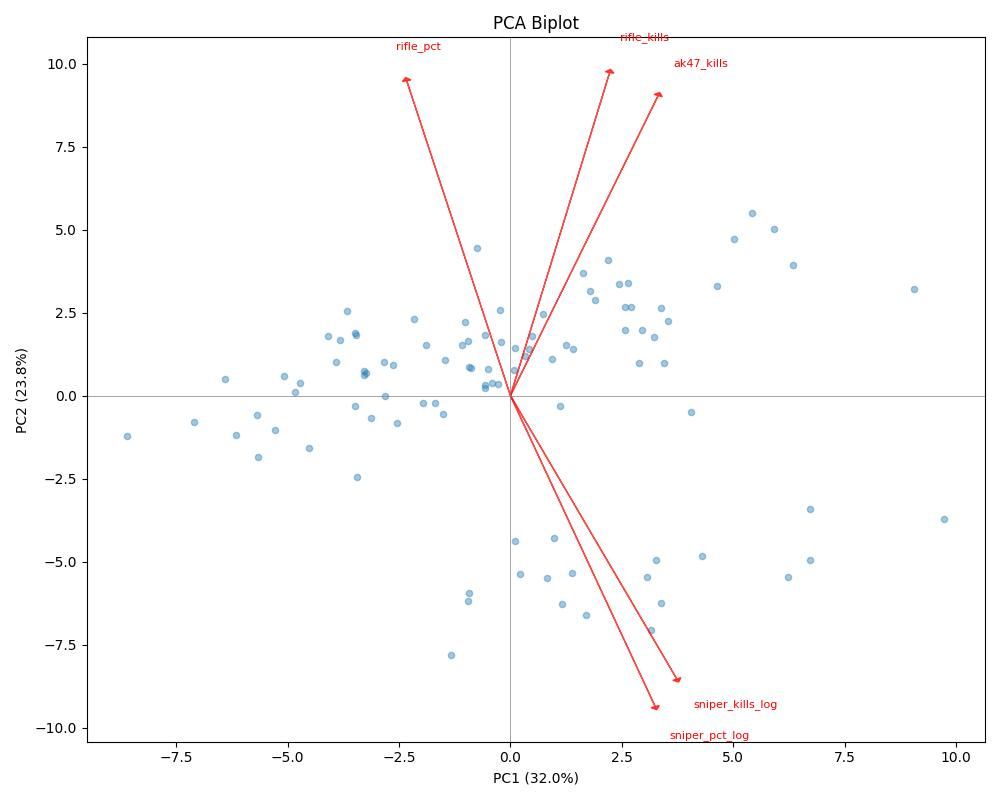
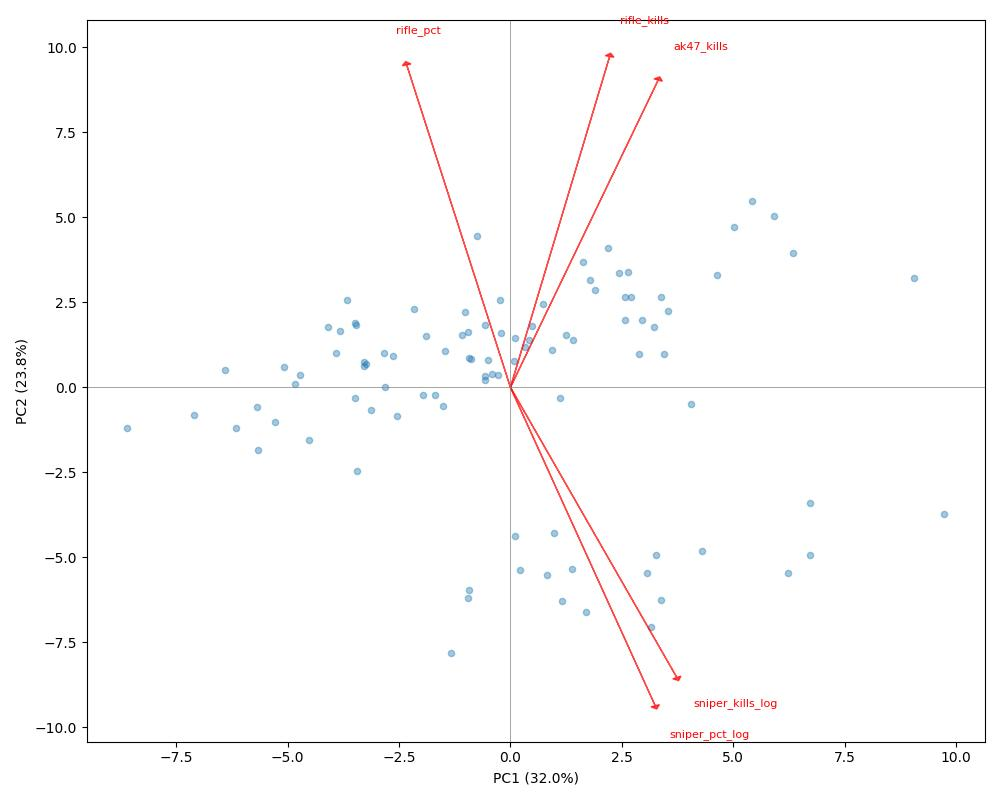
PCA results and discussion

diff --git a/blog_post.md b/blog_post.md
@@ -172,9 +172,60 @@ Agglomerative hierarchical clustering was applied to the full standardized featu
 
 ## Results
 
+### Principal Component Analysis (PCA)
 
+<div align="center">
+  <img src="images/scree_plot.jpg" alt="Scree Plot">
+</div>
 
+*Figure 1 – Individual and cumulative proportion of variance explained by each principal component. The dashed line marks the 90% threshold.*
 
+The scree plot reveals two things immediately. First, no single component dominates: PC1 captures a meaningful share of variance but far from the majority, and the individual bars decline gradually rather than dropping sharply after the first component. Second, reaching 90% of total variance requires **9 principal components** out of a possible 40.
+Player performance is genuinely multi-dimensional as no single axis summarizes the data cleanly. This makes intuitive sense: a player's statistical fingerprint is shaped by several largely independent factors such as how good they are overall, what weapon they prefer, how much playing time they have had, and what role they fill on the team.
 
+Table 1 shows the three largest positive and negative loadings for each of the nine retained components.
 
+| PC | Top positive loadings | Top negative loadings |
+|----|----------------------|-----------------------|
+| PC1 | KD\_Ratio (+0.258), KPR (+0.258), ROUND\_SWING (+0.257) | DPR (–0.119), smg\_pct (–0.145), smg\_kills (–0.084) |
+| PC2 | rifle\_kills (+0.296), rifle\_pct (+0.288), ak47\_kills (+0.274) | sniper\_pct\_log (–0.284), sniper\_kills\_log (–0.259), awp\_kills\_log (–0.257) |
+| PC3 | Rounds\_played (+0.371), Maps\_played (+0.367), Total\_deaths (+0.343) | ADR (–0.164), Impact\_rating (–0.158), MULTI\_KILL (–0.146) |
+| PC4 | pistol\_pct (+0.424), Saved\_teammates (+0.312), deagle\_kills (+0.272) | smg\_kills (–0.384), smg\_pct (–0.376), Grenade\_dmg (–0.280) |
+| PC5 | KAST (+0.388), m4a1\_kills (+0.334), KD\_Ratio (+0.137) | DPR (–0.373), m4a1s\_kills (–0.242), deagle\_kills (–0.225) |
+| PC6 | m4a1s\_kills (+0.386), Grenade\_dmg (+0.359), Assists (+0.206) | m4a1\_kills (–0.340), smg\_kills (–0.333), smg\_pct (–0.307) |
+| PC7 | pistol\_pct (+0.447), m4a1s\_kills (+0.399), smg\_pct (+0.296) | m4a1\_kills (–0.432), Saved\_teammates (–0.277), ak47\_kills (–0.113) |
+| PC8 | Saved\_by\_teammate (+0.706), Saved\_teammates (+0.441), KAST (+0.252) | m4a1\_kills (–0.253), deagle\_kills (–0.226), Grenade\_dmg (–0.161) |
+| PC9 | Grenade\_dmg (+0.579), Assists (+0.350), pistol\_pct (+0.334) | m4a1s\_kills (–0.253), ak47\_kills (–0.119), glock\_kills (–0.110) |
+
+*Table 1 – Top loadings (by absolute magnitude) for each principal component.*
+
+<div align="center">
+  <img src="images/biplot.jpg" alt="Biplot PC1 vs PC2">
+</div>
+
+*Figure 2 – Biplot of player scores on PC1 and PC2. Red arrows show the loading directions of the five features with the largest combined magnitude across both components.*
+
+---
+
+### Clustering Analysis
+
+---
+
+## Discussion
+
+### Breaking Down the Principal Components
+As the original 40-dimensional feature space was decomposed into 9 principal components. the **rotation matrix** (`pca.components_`) tells you what each PC measures while the **scores** (`X`) tell you where each player stands on those measures.
+
+Referring to Table 1:
+**PC1 – Overall Performance.** Output-oriented metric such as KD\_Ratio, KPR, and ROUND\_SWING metric pulls positive. DPR and SMG percentage pull negative. As a result, this component is a composite skill index. High scores on PC1 mean more kills, fewer deaths, and more rounds swung in the team's favor. 
+
+**PC2 – Weapon Style (AWP vs. Rifle).** The loadings split cleanly along weapon lines. Rifle\_kills, rifle\_pct, and ak47\_kills load strongly positive while sniper\_pct\_log, sniper\_kills\_log, and awp\_kills\_log load strongly negative at nearly equal magnitude. Moving along PC2 from negative to positive means moving from dedicated AWPer to dedicated rifler. 
+
+**PC3 – Playing Volume vs. Per-Round Impact.** Rounds\_played, Maps\_played, and Total\_deaths dominate the positive side while ADR, Impact\_rating, and MULTI\_KILL pull negative. This axis separates players who accumulate rounds from those who are efficient per round. High PC3 scores point to the IGL and support role player profile. They have plenty of maps played, but below-average per-round output.
+
+**PC4 – Economy Weapon Preference.** Pistol\_pct and deagle\_kills load positively while smg\_kills and smg\_pct load negatively. On eco and force-buy rounds, players either choose pistols or SMGs and this component distinguishes these two styles. The positive loading on Saved\_teammates links the deagle-preference style to players who has higer aiming skills and tends to stay behide to trade rather than running with SMGs.
+
+**PC5 through PC9** capture progressively narrower dimensions: CT-side survivability (PC5), M4A1-S vs. M4A1 preference (PC6 and PC7), teammate-save dynamics (PC8), and utility/grenade damage paired with assist rate (PC9). These later components explain relatively little variance individually but collectively cover meaningful structural variation that the first four miss.
+
+The biplot in Figure 2 reveals a clear split along the PC2 axis. One band of players clusters toward negative PC2 values (AWPers, pulled by the sniper loading arrows), while the larger group sits at positive or near-zero PC2 (riflers). Within each band, players spread horizontally along PC1 according to overall performance level. This structure would be invisible in a plot of any two original features. Plotting Rating 3.0 against ADR shows only a diagonal performance band with no weapon-style separation, since both metrics are output measures regardless of weapon. Plotting rifle\_kills against awp\_kills shows the weapon split but loses all skill-level information.
 